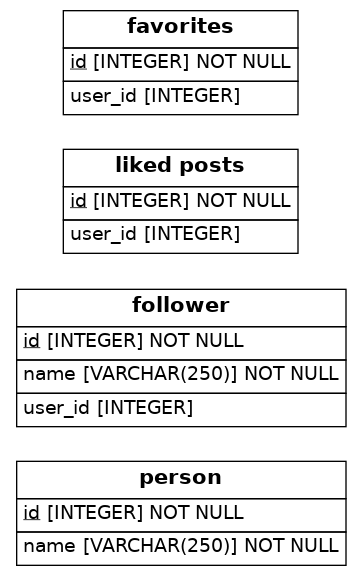
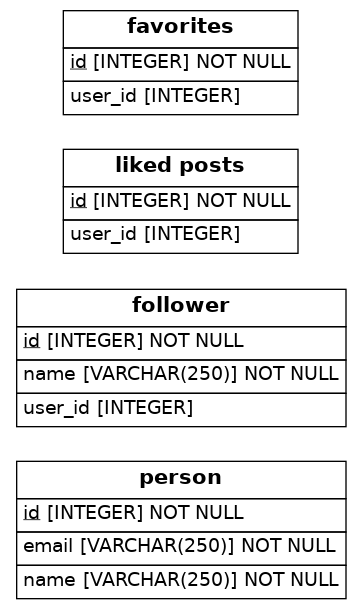
save 2

Changed region(s): [[0.0305, 0.0, 0.9751, 1.0]]

diff --git a/src/models.py b/src/models.py
@@ -13,8 +13,9 @@ class User(Base):
     # Notice that each column is also a normal Python instance attribute.
     id = Column(Integer, primary_key=True)
     name = Column(String(250), nullable=False)
+    email = Column(String(250), nullable=False)
 
-    contacts = relationship('Follower', back_populates="user")
+    followers = relationship('Follower', back_populates="user")
     favorites = relationship('Favorites', back_populates="user")
 
 class Follower(Base):
